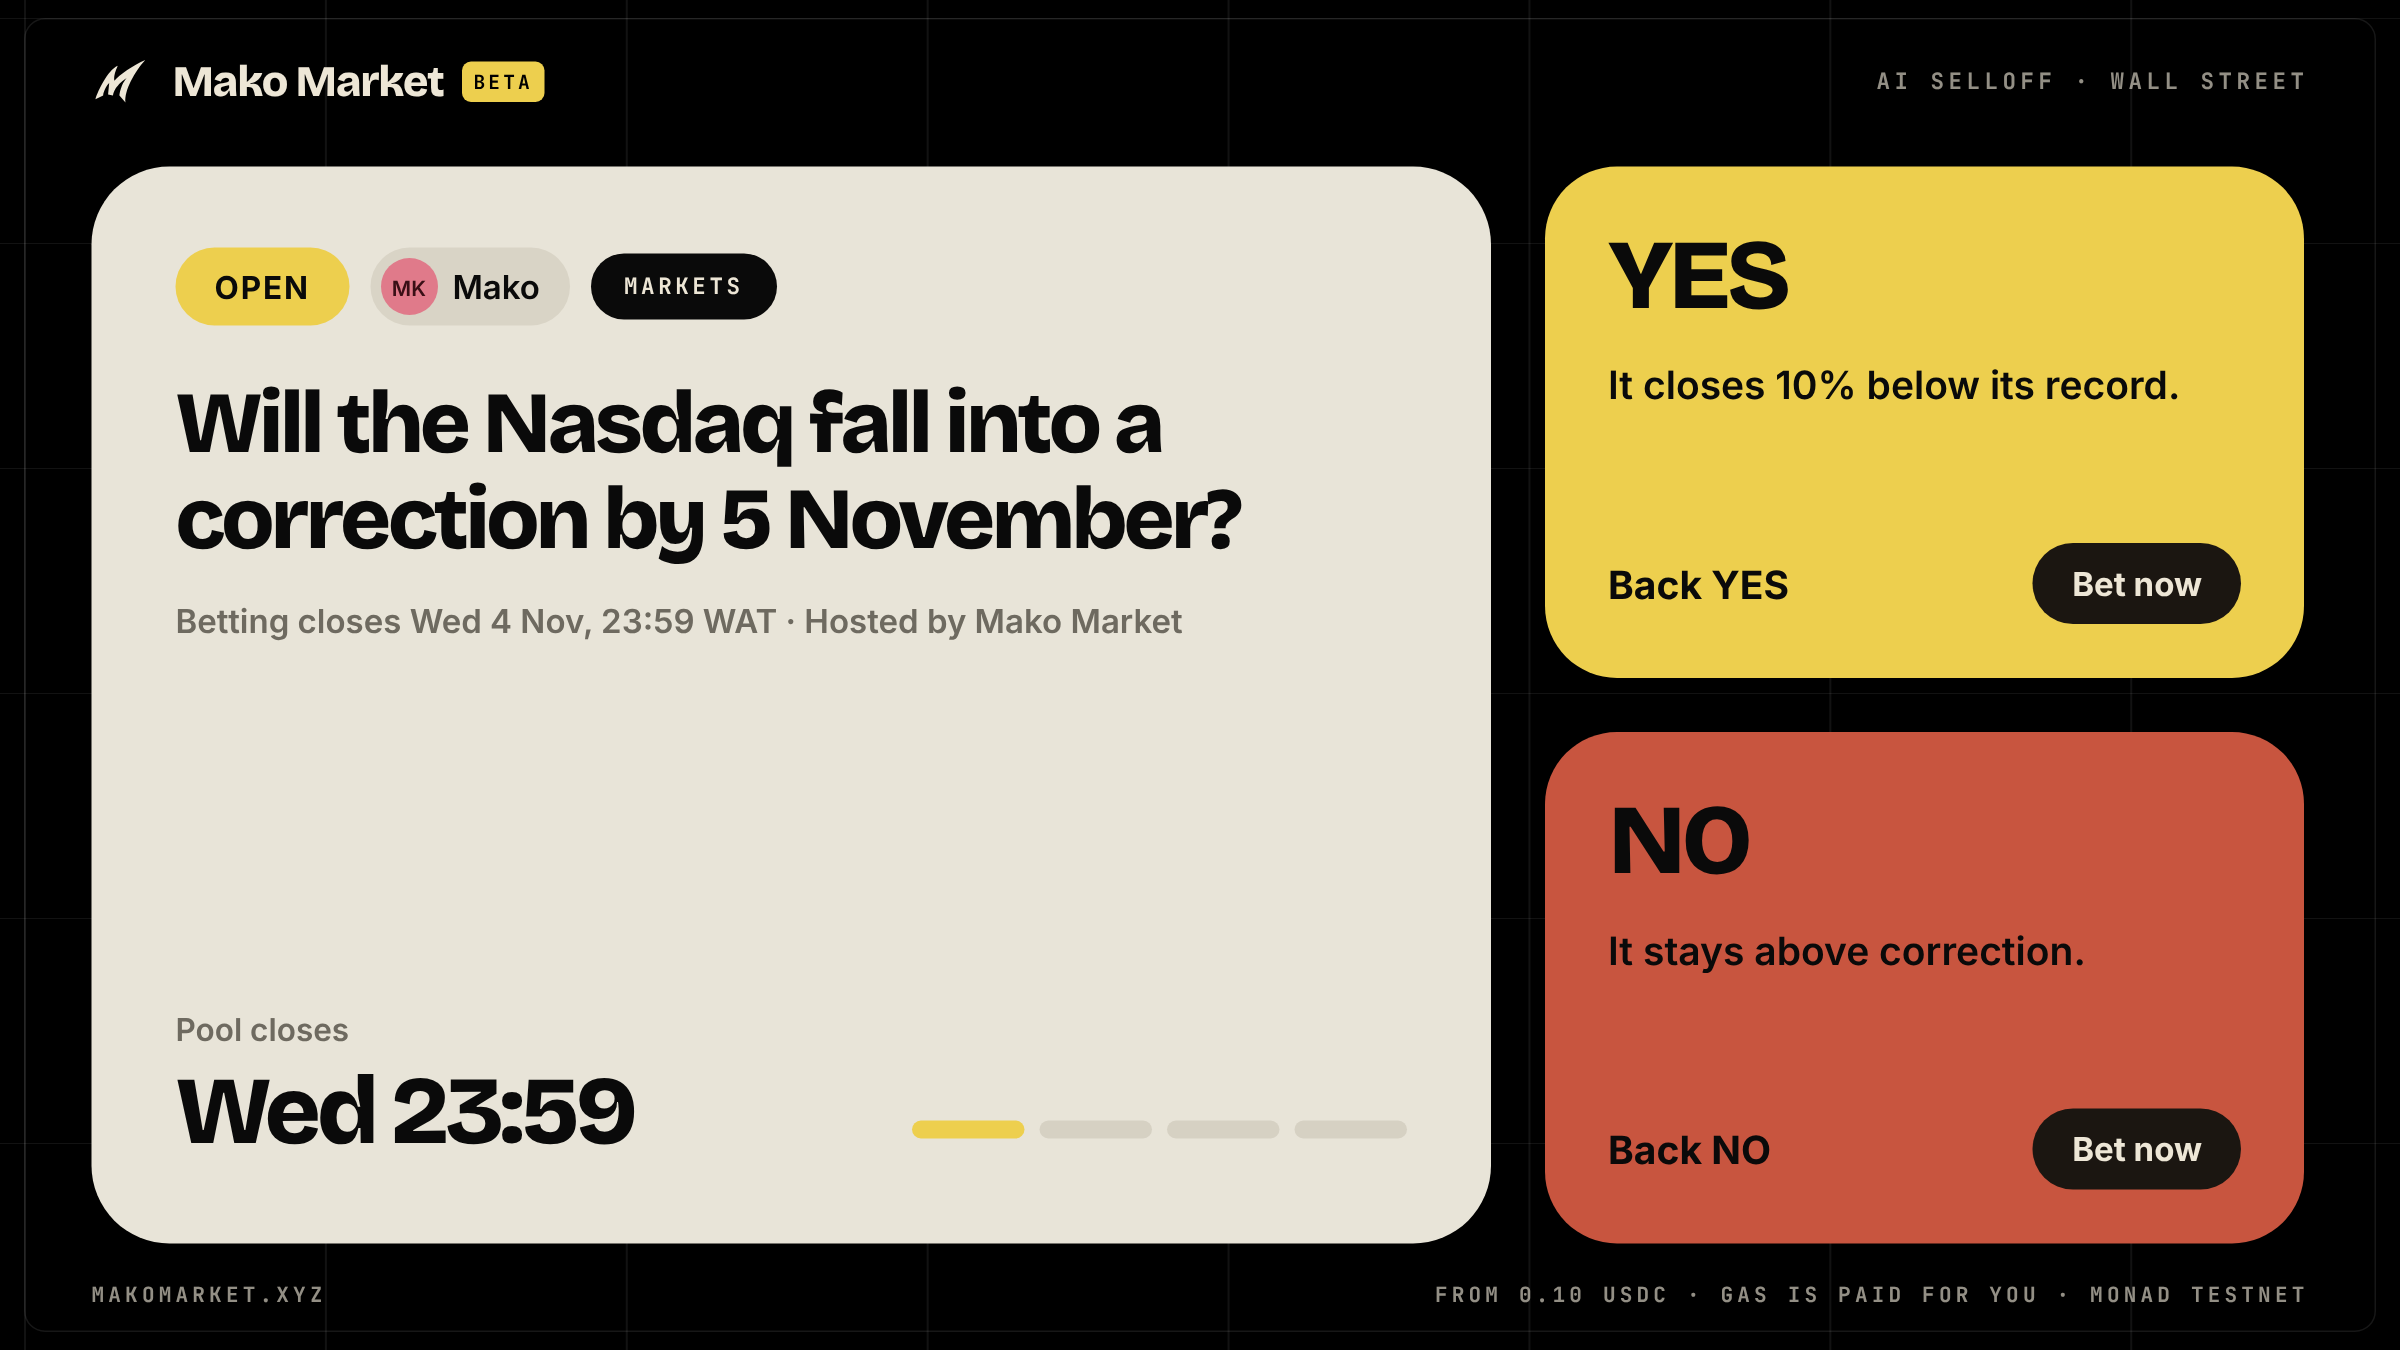
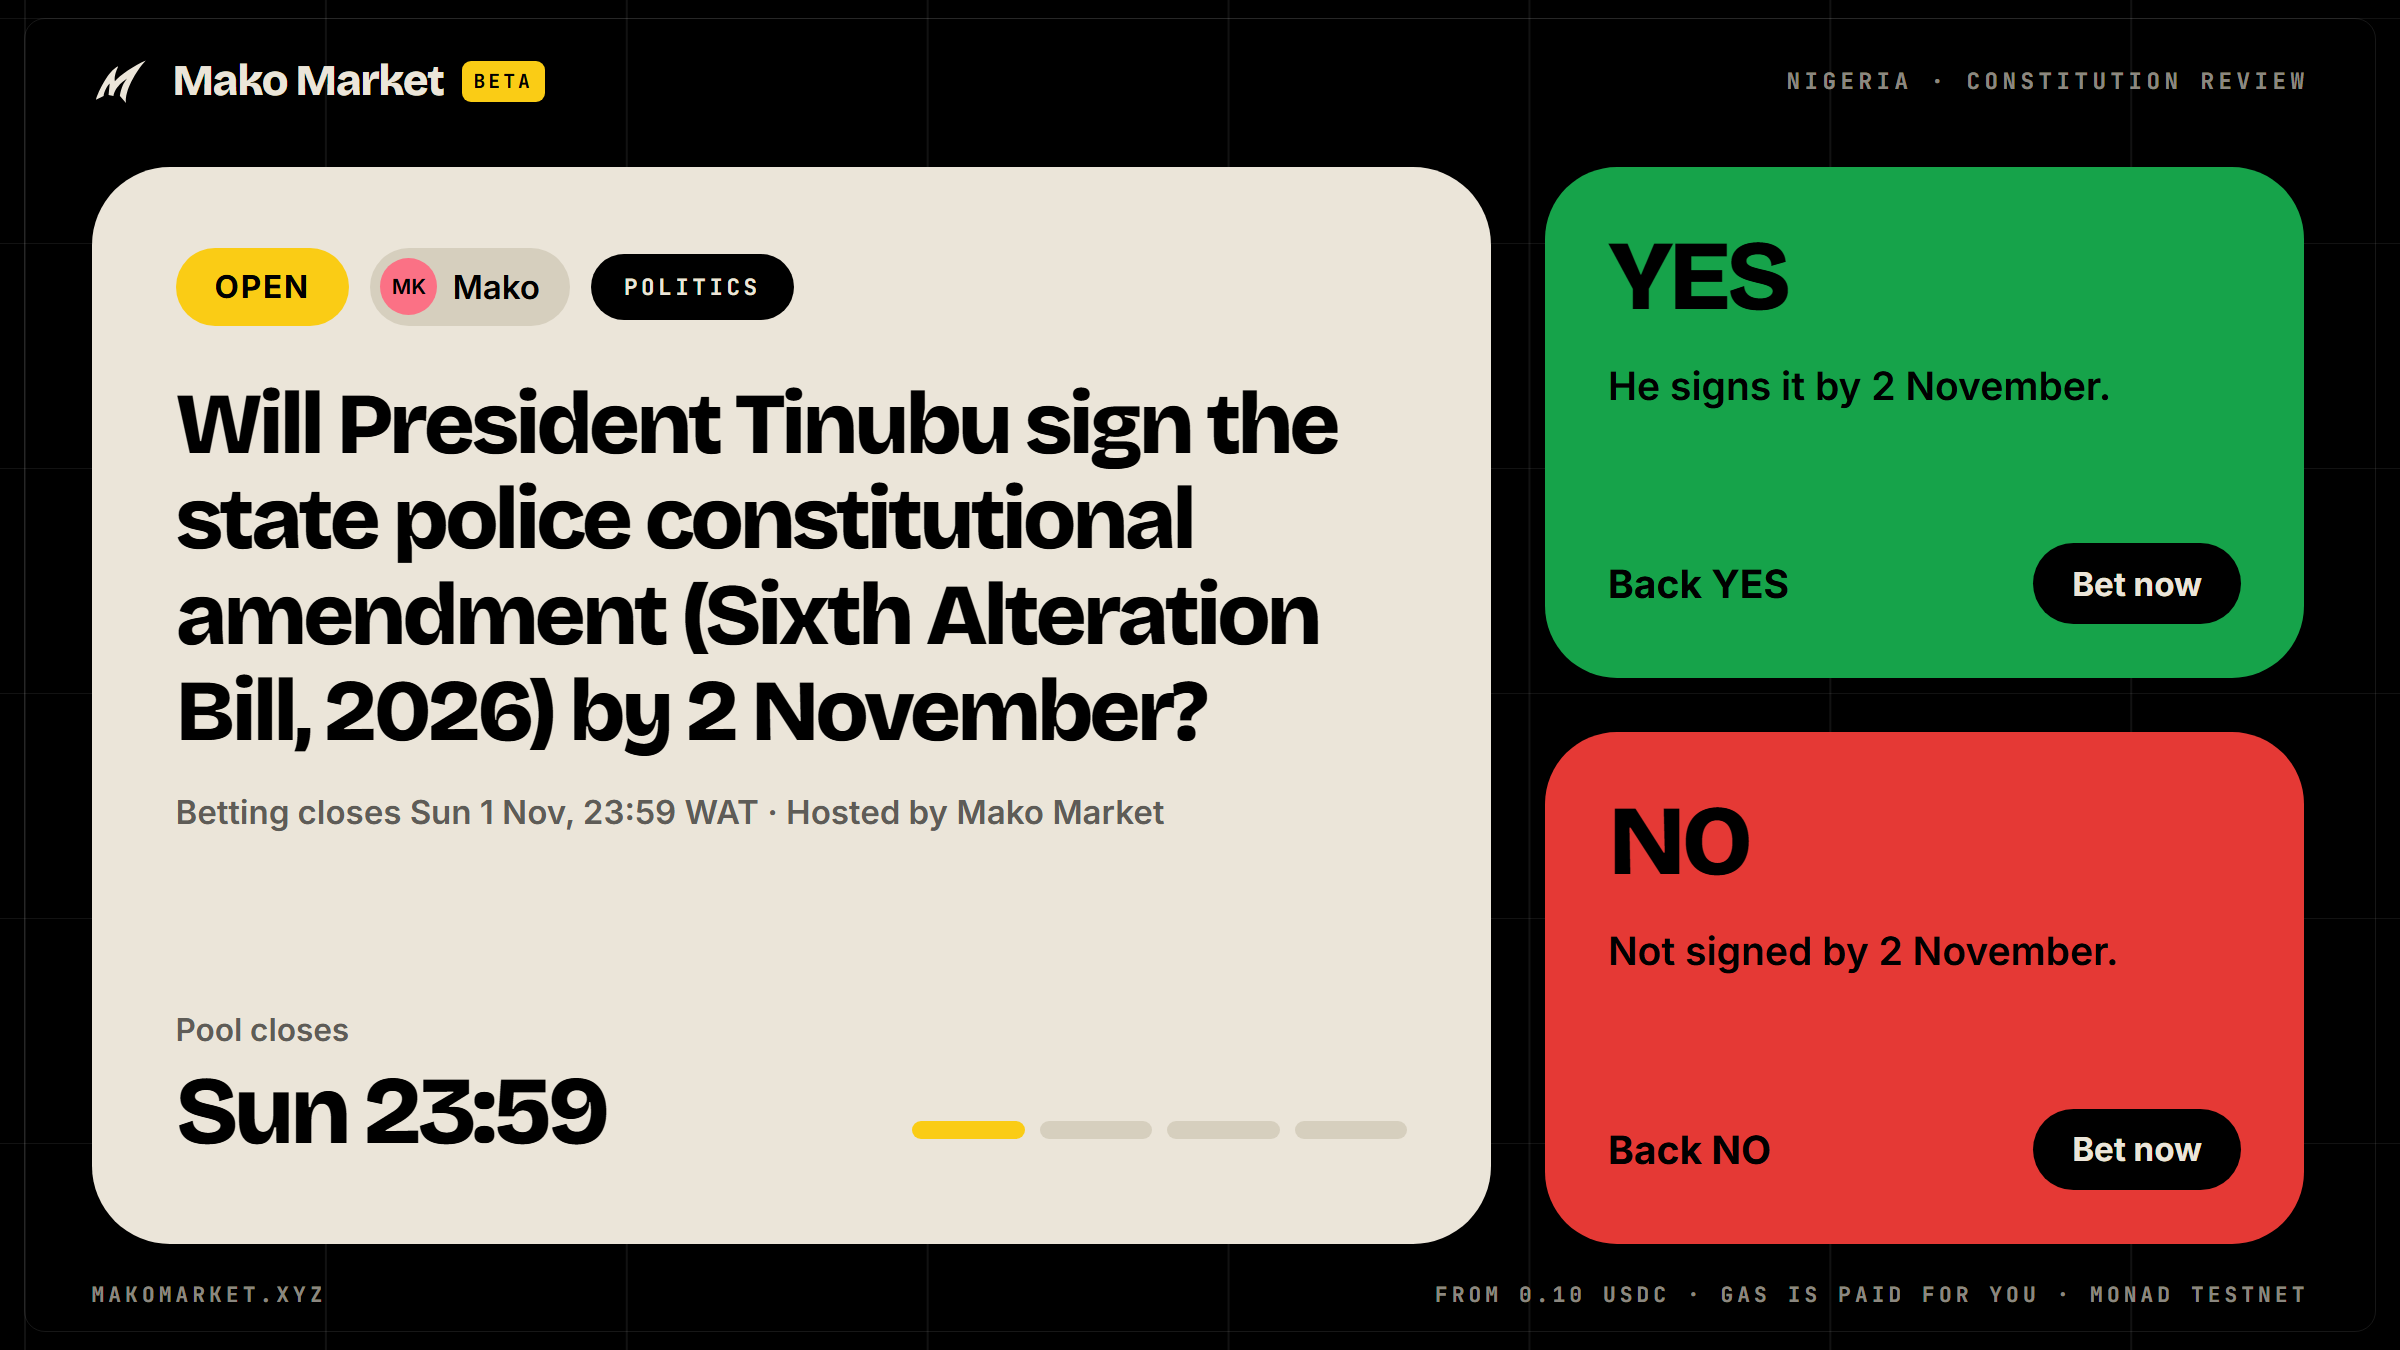
docs(social): pool card uses the live app colours
YES green #16A34A, NO red #E53935, signal yellow #FACC15, paper #EBE5D9
and the coral Mako avatar #FB7185, read from the computed CSS of the
makomarket.xyz pool list. Keeps "6 November" together on the YES and NO
lines, fits the question once fonts load, and adds a headless Chrome
renderer for Windows.

diff --git a/docs/social/pool-post-card/card.html b/docs/social/pool-post-card/card.html
@@ -5,7 +5,8 @@
 @font-face{font-family:Inter;src:url(fonts/inter-latin-wght-normal.woff2) format("woff2");font-weight:100 900}
 @font-face{font-family:Mono;src:url(fonts/jetbrains-mono-latin-500-normal.woff2) format("woff2");font-weight:500}
 @font-face{font-family:Mono;src:url(fonts/jetbrains-mono-latin-700-normal.woff2) format("woff2");font-weight:700}
-:root{--paper:#E8E4D8;--ink:#0A0A0A;--y:#EDCF4E;--red:#C8553F;--cream:#EDE6D6;--grey:#6E6A60}
+/* colours from the live app (makomarket.xyz pool page): paper, sunken paper, ink, signal yellow, YES green, NO red, muted text */
+:root{--paper:#EBE5D9;--sunk:#D6CFBE;--ink:#000;--y:#FACC15;--yes:#16A34A;--no:#E53935;--cream:#EBE5D9;--grey:#5E5C57}
 *{box-sizing:border-box;margin:0;padding:0}
 html,body{width:1600px;height:900px;background:#000;overflow:hidden}
 body{position:relative;font-family:Inter,sans-serif;color:var(--ink)}
@@ -17,14 +18,14 @@ body{position:relative;font-family:Inter,sans-serif;color:var(--ink)}
 .brand{display:flex;align-items:center;gap:12px;font-family:Bric;font-weight:800;font-size:29px;letter-spacing:-.03em;color:var(--cream)}
 .brand svg{width:38px;height:30px;margin-right:4px}
 .beta{font-family:Mono;font-weight:700;font-size:13px;letter-spacing:.16em;background:var(--y);color:#000;padding:5px 8px;border-radius:6px}
-.mono{font-family:Mono;font-weight:700;letter-spacing:.2em;text-transform:uppercase;color:rgba(237,230,214,.62)}
+.mono{font-family:Mono;font-weight:700;letter-spacing:.2em;text-transform:uppercase;color:rgba(235,229,217,.62)}
 .kicker{font-size:15px}
 .left{position:absolute;left:61px;top:111px;width:933px;height:718px;background:var(--paper);border-radius:52px;padding:54px 56px 56px;display:flex;flex-direction:column}
 .pills{display:flex;align-items:center;gap:14px}
 .pill{height:52px;border-radius:999px;display:flex;align-items:center;font-size:21px}
 .open{background:var(--y);padding:0 26px;font-family:Inter;font-weight:700;letter-spacing:.06em}
-.host{background:#D9D4C6;padding:0 20px 0 7px;gap:10px;font-weight:600;font-size:22px}
-.av{width:38px;height:38px;border-radius:50%;background:#E07A8A;display:flex;align-items:center;justify-content:center;font-size:14px;font-weight:600;color:#3a0f16}
+.host{background:var(--sunk);padding:0 20px 0 7px;gap:10px;font-weight:600;font-size:22px}
+.av{width:38px;height:38px;border-radius:50%;background:#FB7185;display:flex;align-items:center;justify-content:center;font-size:14px;font-weight:600;color:#000}
 .cat{background:var(--ink);color:var(--cream);padding:0 22px;height:44px;font-family:Mono;font-weight:700;font-size:15px;letter-spacing:.16em}
 .qbox{flex:1;min-height:0;margin-top:34px;display:flex;flex-direction:column}
 .q{font-family:Bric;font-weight:800;letter-spacing:-.045em;line-height:1.1}
@@ -33,21 +34,21 @@ body{position:relative;font-family:Inter,sans-serif;color:var(--ink)}
 .pc .k{font-size:21px;font-weight:600;color:var(--grey)}
 .pc .v{font-family:Bric;font-weight:800;font-size:64px;letter-spacing:-.05em;line-height:1;margin-top:10px}
 .bars{display:flex;gap:10px;margin-bottom:14px}
-.bars i{display:block;width:75px;height:12px;border-radius:99px;background:#D6D1C3}
+.bars i{display:block;width:75px;height:12px;border-radius:99px;background:var(--sunk)}
 .bars i:first-child{background:var(--y)}
 .side{position:absolute;left:1030px;width:506px;height:341px;border-radius:48px;padding:40px 42px 36px;display:flex;flex-direction:column}
-.yes{top:111px;background:var(--y)}.no{top:488px;background:var(--red)}
+.yes{top:111px;background:var(--yes)}.no{top:488px;background:var(--no)}
 .side .big{font-family:Bric;font-weight:800;font-size:66px;letter-spacing:-.05em;line-height:1}
 .side .line{margin-top:24px;font-size:26px;font-weight:600;line-height:1.25}
 .side .row{margin-top:auto;display:flex;align-items:center;justify-content:space-between}
 .side .back{font-family:Inter;font-weight:700;font-size:26px}
-.bet{background:#1B1611;color:var(--cream);height:54px;padding:0 26px;border-radius:999px;display:flex;align-items:center;font-weight:700;font-size:22px}
+.bet{background:var(--ink);color:var(--cream);height:54px;padding:0 26px;border-radius:999px;display:flex;align-items:center;font-weight:700;font-size:22px}
 .foot{position:absolute;left:61px;right:61px;bottom:28px;display:flex;justify-content:space-between;font-size:14px}
 </style></head>
 <body>
 <div class="grid"></div><div class="frame"></div>
 <div class="top">
-  <div class="brand"><svg viewBox="-3 -3 406 316"><path fill="#EDE6D6" d="M 25,285 L 80,259 C 80,227 112,177 123,169 L 115,251 L 150,259 C 160,186 246,135 246,135 C 246,135 226,156 211,196 C 196,235 196,259 196,259 L 239,308 C 229,222 306,86 380,5 C 298,40 193,111 160,153 C 160,153 155,132 163,104 C 170,76 184,50 183,47 C 112,81 44,221 25,285 Z"/></svg>Mako Market<span class="beta">BETA</span></div>
+  <div class="brand"><svg viewBox="-3 -3 406 316"><path fill="#EBE5D9" d="M 25,285 L 80,259 C 80,227 112,177 123,169 L 115,251 L 150,259 C 160,186 246,135 246,135 C 246,135 226,156 211,196 C 196,235 196,259 196,259 L 239,308 C 229,222 306,86 380,5 C 298,40 193,111 160,153 C 160,153 155,132 163,104 C 170,76 184,50 183,47 C 112,81 44,221 25,285 Z"/></svg>Mako Market<span class="beta">BETA</span></div>
   <div class="mono kicker" id="kicker"></div>
 </div>
 <div class="left">
@@ -64,10 +65,12 @@ body{position:relative;font-family:Inter,sans-serif;color:var(--ink)}
 <script>
 const p=new URLSearchParams(location.search), $=id=>document.getElementById(id);
 $('q').textContent=p.get('q').replace(/(\d+) (October|November)/g,'$1 $2');
-for(const k of ['kicker','cat','sub','pc','yes','no'])$(k).textContent=p.get(k);
+for(const k of ['kicker','cat','sub','pc'])$(k).textContent=p.get(k);
+for(const k of ['yes','no'])$(k).textContent=p.get(k).replace(/(\d+) (October|November)/g,'$1 $2');
 window.fit=()=>{const q=$('q'),b=document.querySelector('.qbox'),s=$('sub');
   let f=58;q.style.fontSize=f+'px';
   while(q.offsetHeight+s.offsetHeight+22>b.clientHeight&&f>34){f-=1;q.style.fontSize=f+'px'}
   return f};
+document.fonts.ready.then(()=>window.fit());
 </script>
 </body></html>

diff --git a/docs/social/README.md b/docs/social/README.md
@@ -40,6 +40,13 @@ Rules:
 `pool-post-card/` renders the approved pool card (black grid, cream question card, yellow YES and red
 NO cards), 2400x1350 for X. See `pool-post-card/example.png`.
 
+Colours are the live app's (computed CSS on the makomarket.xyz pool list and pool page), since 30 Oct 2026:
+YES green #16A34A, NO red #E53935, signal yellow #FACC15 (OPEN, BETA, progress), paper #EBE5D9,
+sunken #D6CFBE, ink #000, muted text #5E5C57, Mako avatar coral #FB7185. The /designsystem page is outdated on YES/NO.
+
+On Windows without Playwright: `powershell -File render-windows.ps1 -CardDir <this folder> -OutDir <out> -ProfileDir <temp>`
+(headless Chrome; edit the pools list in the script first).
+
 ```
 cd docs/social/pool-post-card
 npm pack @fontsource-variable/bricolage-grotesque @fontsource-variable/inter @fontsource/jetbrains-mono
